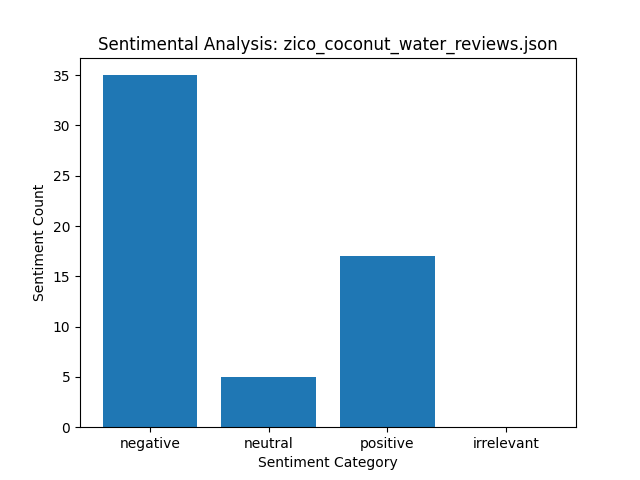
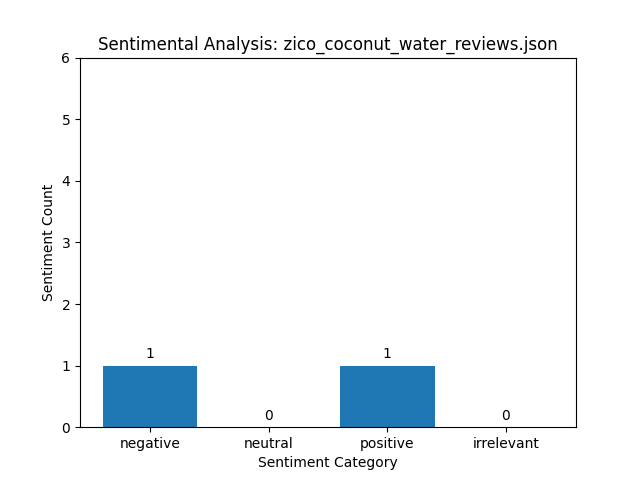
Transform: updated prompt however final output is of flawd length

diff --git a/APIs/OpenAI/src/etl_transform.py b/APIs/OpenAI/src/etl_transform.py
@@ -7,7 +7,7 @@ class Transform():
 
 
     @staticmethod
-    def validate(raw_data: list[str]) -> bool:
+    def check_errors(raw_data: list[str]) -> bool:
         '''
         Determines if raw sentiment data contains any erroneous data. Egdge cases considered:
         (1) Empty data -> [] -> print error message
@@ -38,7 +38,7 @@ class Transform():
             list (str): Collection of one-word summaries for reviews.
         '''
         client = OpenAI(api_key=os.getenv("API_OPENAI"))
-        system_context, user_context = Transform.prompt_context(raw_data)
+        system_context, user_context = Transform.prompt_context(raw_data, len(raw_data))
         completion = client.chat.completions.create(
             model = "gpt-4o-mini",
             messages = [
@@ -50,13 +50,15 @@ class Transform():
         
 
     @staticmethod
-    def prompt_context(raw_data: list[str]) -> tuple[str, str]:
+    def prompt_context(raw_data: list[str], raw_count: int) -> tuple[str, str]:
         '''
         Uses parameter and user input to determine system and user context for OpenAI API to use for client.
+            - Handles edge case of ensuring that length of input and output match.
             - Does not consider edge cases where user provides erroneous input for `product` variable.
 
         Parameters:
             raw_data list(str): Raw data of sentiment comments.
+            raw_count (int): Number of sentiment comments provided.
         Returns:
             tuple (str, str): System context and user context, respectively.      
         '''
@@ -71,10 +73,19 @@ class Transform():
             - Use the OpenAI API for sentimental analysis of raw data
             - The user will tell you what product is being reviewed
         [2] Input: list(str)
-            User review sentences. Data has already been previously validated for erroneous data.
+            Data has already been cleaned and filtered. This is the input data: {reviews}.
+            - The data list has a length of {raw_count}, and all items are strings.
+            - Each item string represents a user review of this product: {product}
+            - It is possible that some items inside the data consist of irrelevant reviews unrelated to the product.
         [3] Output: list(str)
-            One-word summary for each review. Only four possible summary values exist for each review:
-            - {Transform.SENTIMENTS}
+            - We need to analyze {reviews} to create a new list of strings of the same length {raw_count}.
+            - All items from the new list can only be from this list of choices: {Transform.SENTIMENTS}.
+            - The new list will be created as follows:
+              - You will look at each item value inside {reviews}
+              - Based upon sentimetnal analysis, you will decide what word from {Transform.SENTIMENTS} represents the prodcut review.
+              - The word you choose will be appended to the new list
+              - This will ensure that each item in {reviews} gets assigned a sentiment to append to the new list created.
+              - The length of the new list must be {raw_count}.
         [4] Sample:
             User context: Review a ring purchased for an individual to wear.
             Parameters: [
@@ -88,8 +99,26 @@ class Transform():
         user_context = f"""
         Client collected reviews about this product: {product}
         Categorize each survey response inside {reviews} with one value inside {Transform.SENTIMENTS}.
+        Since the input had a size of {raw_count} I expect the output to have the same size.
         """
         return (system_context, user_context)
+    
+
+    @staticmethod
+    def validate(sentiments: list[str], count: int) -> list[str]:
+        '''
+        Method ensures that final output has the proper size. Edge cases considered:
+        - Final output is either smaller or larger than intended size.
+
+        Parameters:
+            list (str): Collection of unvalidated one-word summaries for reviews. (Potential size error)
+        Returns:
+            list (str): Collection of validated one-word summaries for reviews.  
+        '''
+        data = sentiments[:count]
+        if len(data) < count:
+            data.extend(Transform.SENTIMENTS[-1] for _ in range(count - len(data)))
+        return data
 
 
     @staticmethod
@@ -102,6 +131,8 @@ class Transform():
         Returns:
             list (str): Collection of one-word summaries for reviews.
         '''
-        is_valid = Transform.validate(raw_data)
-        sentiments = Transform.prompt_mapper(raw_data) if is_valid else []
-        return sentiments
+        print(f"JSON data length: {len(raw_data)}")
+        is_errors = Transform.check_errors(raw_data)
+        sentiments = Transform.prompt_mapper(raw_data) if is_errors else []
+        print(f"API response length: {len(sentiments)}")
+        return Transform.validate(sentiments, len(raw_data))

diff --git a/APIs/OpenAI/src/etl_load.py b/APIs/OpenAI/src/etl_load.py
@@ -39,10 +39,12 @@ class Load():
 
         # plot data
         figure, axes = plt.subplots()
-        axes.bar(x=sentiment_names, height=sentiment_counts)
+        bars = axes.bar(x=sentiment_names, height=sentiment_counts)
 
         # label data
         axes.set(xlabel="Sentiment Category", ylabel="Sentiment Count", title=f"Sentimental Analysis: {file_name}")
+        axes.set_ylim(0, max(sentiment_counts) + 5) # y-axis padding
+        axes.bar_label(bars, padding=3) # bar chart labels
 
         # save data, no need for plt.show() in this project
         figure.savefig(os.path.join(Load.DST_DIR_NAME, file_name.replace(".json", ".png")))

diff --git a/APIs/OpenAI/README.md b/APIs/OpenAI/README.md
@@ -53,7 +53,19 @@ Overall, this project resembled an ETL pipeline. The following resources were re
 
 ## Analysis
 
-...
+### Question 1
+
+> What is the most common sentiment observed in your sample of 50 reviews according to your OpenAI labeled data?
+
+The most common sentiment category for the histogram was "negative".
+
+### Question 2
+
+> How reliable do you believe these labels are? Look at the respective labels OpenAI has generated for specific reviews, does it seem like the large language model accurately described the user's review? What risk do model hallucinations introduce into this analysis?
+
+### Question 3
+
+> Using the most common sentiment, what would you recommend to this Coconut Water producer to improve customer satisfaction? Should they continue to pursue current market/product outcomes, or does there exist an opportunity for this business to improve its product?
 
 ## Credits and Contributing
 
